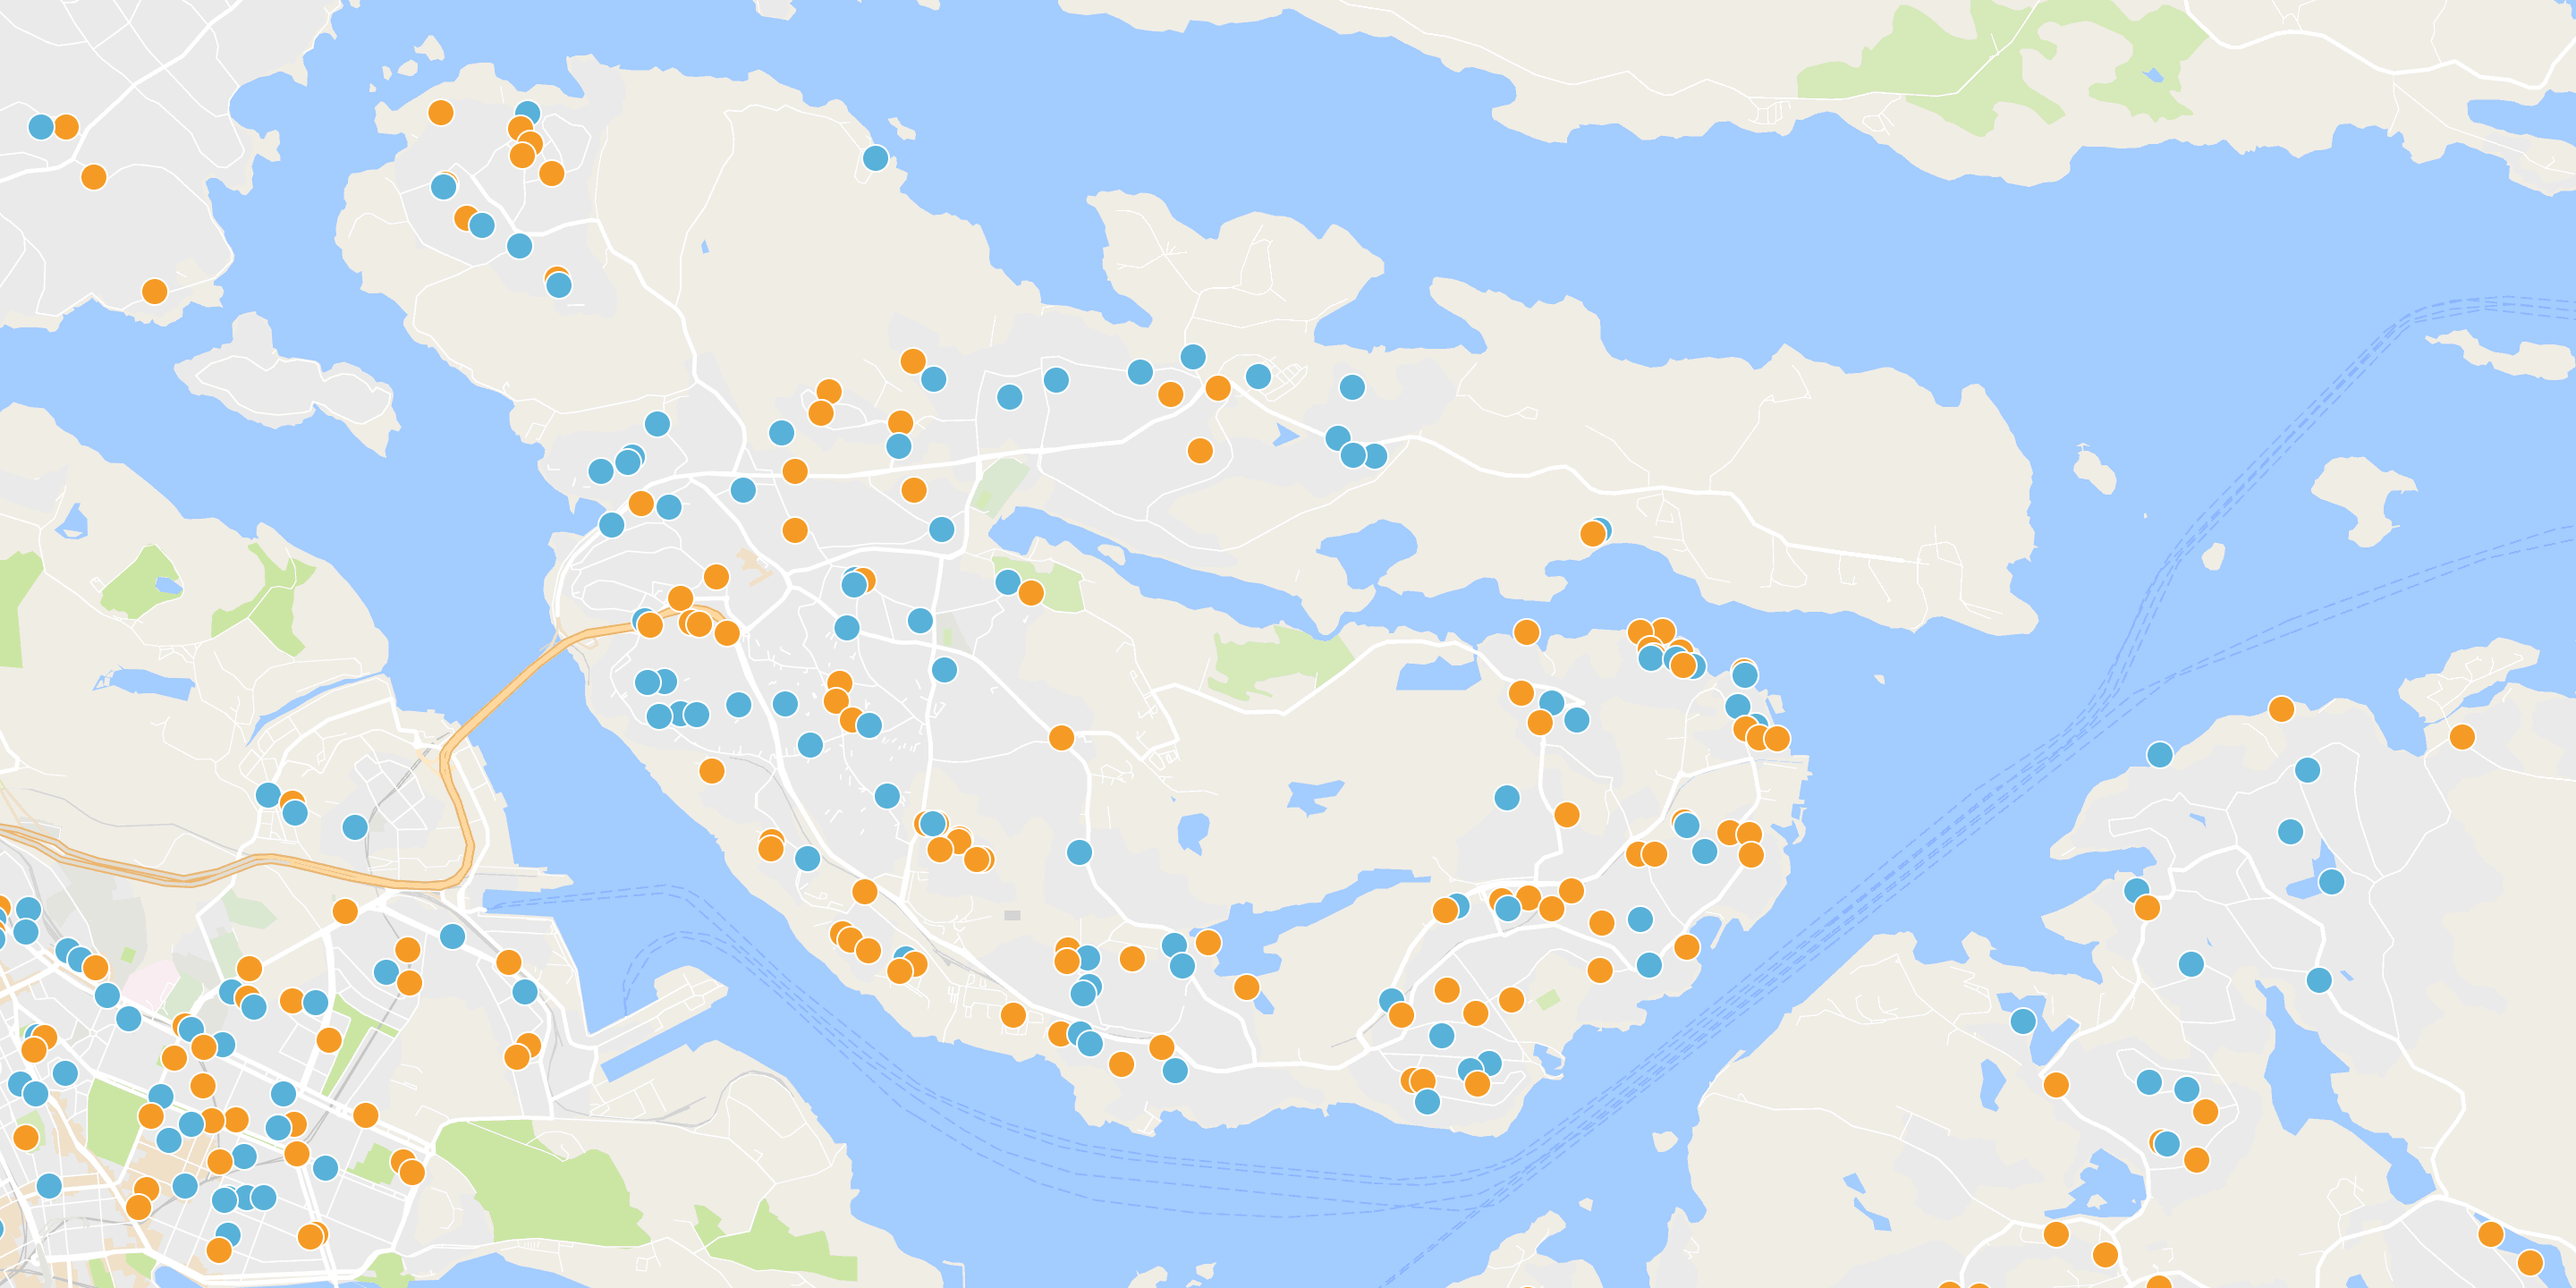
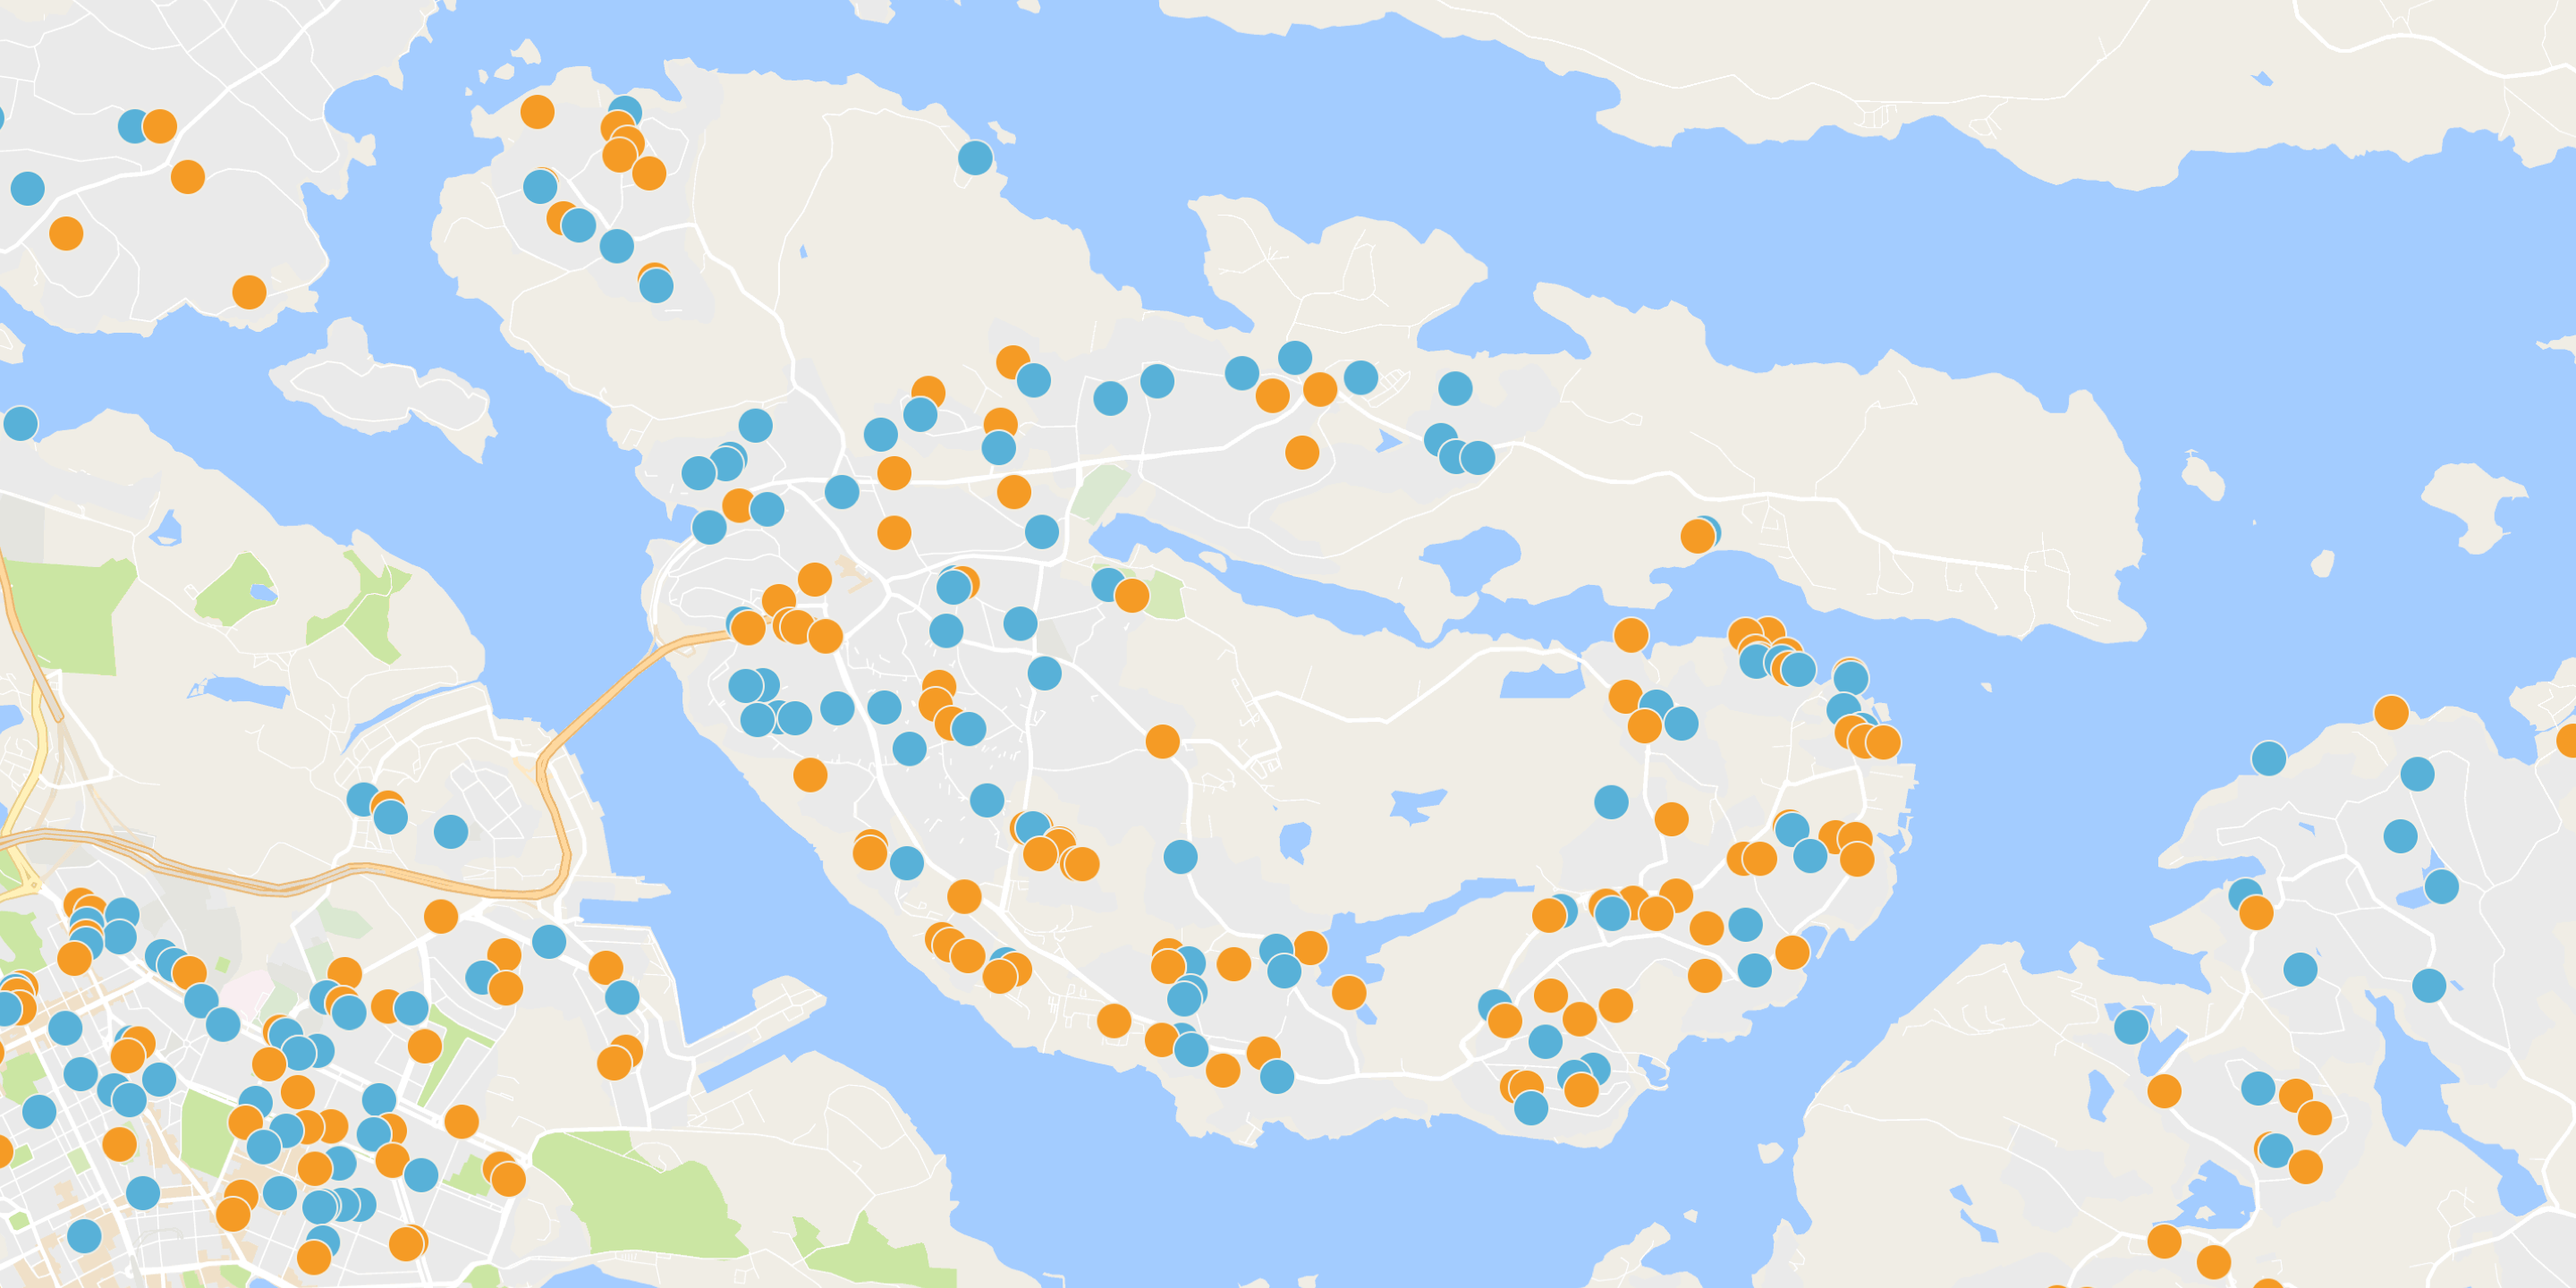
Start page map

diff --git a/src/js/modules/introMap.js b/src/js/modules/introMap.js
@@ -1,10 +1,11 @@
 var $ = require('jquery');
+var globals = require('modules/globals');
 
 var IntroMap = {
   init: function() {
-    var animationDelay = 2500,
+    var firstAnimationDelay = 2500,
       //type effect
-      typeLettersDelay = 100,
+      typeLettersDelay = 80,
       selectionDuration = 500,
       typeAnimationDelay = selectionDuration + 800;
 
@@ -15,9 +16,13 @@ var IntroMap = {
       return;
     }
 
-    singleLetters($('.cd-headline.letters').find('b'));
-    //initialise headline animation
-    animateHeadline($('.cd-headline'));
+    var isMobile = $(window).width() < globals.breakpoints.medium;
+
+    if(!isMobile){
+      singleLetters($typeHeadline.find('b'));
+      //initialise headline animation
+      animateHeadline($typeHeadline);
+    }
 
     function singleLetters($words) {
       $words.each(function() {
@@ -37,59 +42,49 @@ var IntroMap = {
     }
 
     function animateHeadline($headlines) {
-      var duration = animationDelay;
-
       $headlines.each(function() {
         var headline = $(this);
+        var $firstWord = headline.find('.is-visible').eq(0);
         //trigger animation
         setTimeout(function() {
-          hideWord(headline.find('.is-visible').eq(0))
-        }, duration);
+          hideWord($firstWord)
+        }, firstAnimationDelay);
       });
     }
 
     function hideWord($word) {
       var nextWord = takeNext($word);
-      if ($word.parents('.cd-headline').hasClass('type')) {
-        var parentSpan = $word.parent('.cd-words-wrapper');
-        parentSpan.addClass('selected').removeClass('waiting');
-        setTimeout(function() {
-          parentSpan.removeClass('selected');
-          $word.removeClass('is-visible').addClass('is-hidden').children('i').removeClass('in').addClass('out');
-        }, selectionDuration);
-        setTimeout(function() {
-          showWord(nextWord, typeLettersDelay, nextWord.data('background'))
-        }, typeAnimationDelay);
-
-      }
+      var parentSpan = $word.parent('.cd-words-wrapper');
+      parentSpan.addClass('selected').removeClass('waiting');
+      setTimeout(function() {
+        parentSpan.removeClass('selected');
+        $word.removeClass('is-visible').addClass('is-hidden').children('i').removeClass('in').addClass('out');
+      }, selectionDuration);
+      setTimeout(function() {
+        showWord(nextWord, typeLettersDelay, nextWord.data('background'))
+      }, typeAnimationDelay);
     }
 
     function showWord($word, $duration, background) {
-      $introHeaderMap.css('background-image', 'url(' + background + ')');
-      if ($word.parents('.cd-headline').hasClass('type')) {
-        showLetter($word.find('i').eq(0), $word, false, $duration);
-        $word.addClass('is-visible').removeClass('is-hidden');
-      }
+      var changeBackgroundDelay = ($word.text().length - 10) * $duration;
+      setTimeout(function() {
+        $introHeaderMap.css('background-image', 'url(' + background + ')');
+      }, changeBackgroundDelay)
+      showLetter($word.find('i').eq(0), $word, $duration);
+      $word.addClass('is-visible').removeClass('is-hidden');
     }
 
-    function showLetter($letter, $word, $bool, $duration) {
+    function showLetter($letter, $word, $duration) {
       $letter.addClass('in').removeClass('out');
 
       if (!$letter.is(':last-child')) {
         setTimeout(function() {
-          showLetter($letter.next(), $word, $bool, $duration);
+          showLetter($letter.next(), $word, $duration);
         }, $duration);
       } else {
-        if ($word.parents('.cd-headline').hasClass('type')) {
-          setTimeout(function() {
-            $word.parents('.cd-words-wrapper').addClass('waiting');
-          }, 200);
-        }
-        if (!$bool) {
-          setTimeout(function() {
-            hideWord($word)
-          }, animationDelay)
-        }
+        setTimeout(function() {
+          hideWord($word)
+        }, $word.data('animationdelay'))
       }
     }
 

diff --git a/src/css/components/_typed-headline.scss b/src/css/components/_typed-headline.scss
@@ -1,84 +1,82 @@
-.cd-words-wrapper {
-  display: inline-block;
-  position: relative;
-  text-align: left;
-
-  b {
+@media #{$mediumMin} {
+  .cd-words-wrapper {
     display: inline-block;
-    position: absolute;
-    white-space: nowrap;
-    left: 0;
-    top: 0;
+    position: relative;
+    text-align: left;
 
-    &.is-visible {
-      position: relative;
+    b {
+      display: inline-block;
+      position: absolute;
+      white-space: nowrap;
+      left: 0;
+      top: 0;
+
+      &.is-visible {
+        position: relative;
+      }
+
+      .no-js & b {
+        opacity: 0;
+
+        &.is-visible {
+          opacity: 1;
+        }
+      }
     }
+
   }
 
-  .no-js & b {
-    opacity: 0;
-
-    &.is-visible {
-      opacity: 1;
-    }
-
-  }
-}
-
-/* --------------------------------
+  /* --------------------------------
 
 xtype
 
 -------------------------------- */
 
-.cd-headline.type {
-  .cd-words-wrapper {
-    vertical-align: top;
-    overflow: hidden;
+  .cd-headline {
+    .cd-words-wrapper {
+      vertical-align: top;
+      overflow: hidden;
 
-    // &::after {
-    //   /* vertical bar */
-    //   content: '';
-    //   position: absolute;
-    //   right: 0;
-    //   @include center(y);
-    //   height: 90%;
-    //   width: 1px;
-    //   background-color: $white;
-    // }
+      &.selected {
+        background-color: $white;
 
-    &.waiting::after {
-      @include animation(1s, infinite, cd-pulse);
+        &::after {
+          visibility: hidden;
+        }
+
+        b {
+          color: darken($white, 15%);
+        }
+      }
     }
 
-    &.selected {
-      background-color: $white;
+    b {
+      visibility: hidden;
 
-      &::after {
-        visibility: hidden;
+      &.is-visible {
+        visibility: visible;
       }
+    }
 
-      b {
-        color: darken($white, 15%);
+    i {
+      position: absolute;
+      visibility: hidden;
+
+      &.in {
+        position: relative;
+        visibility: visible;
       }
     }
   }
+}
+@media #{$medium} {
+  .cd-headline {
+    b {
+      display: none;
 
-  b {
-    visibility: hidden;
-
-    &.is-visible {
-      visibility: visible;
-    }
-  }
-
-  i {
-    position: absolute;
-    visibility: hidden;
-
-    &.in {
-      position: relative;
-      visibility: visible;
+      &.is-visible {
+        display: inline;
+      }
     }
   }
 }

diff --git a/src/templates/partials/intro-header-start.html b/src/templates/partials/intro-header-start.html
@@ -1,13 +1,13 @@
-<div class="section--intro-header section--intro-header--map-animation section--intro-header--raster js-intro-header--map-animation">
+<div class="section--intro-header section--intro-header--map-animation section--intro-header--raster js-intro-header--map-animation" style="background-image:url(../images/hero/hero-map-1.jpg)">
   <div class="text-wrapper text-wrapper--lg text-wrapper--lg-padding text--white">
-    <h1 class="intro-header--headline">Hur kan våra drivna ungdomar hjälpa dig?</h1>
+    <h1 class="intro-header--headline">Hur kan våra driftiga ungdomar hjälpa dig?</h1>
     <h2 class="intro-header--sub-headline cd-headline js-type-headline letters type">
-			<span>Det finns </span>
+			<span>Vi har </span>
 			<span class="cd-words-wrapper">
-        <b data-background="../images/hero/hero-map-4.png" class="is-visible">över 1500 ungdomar över hela landet</b>
-        <b data-background="../images/hero/hero-map-3.png">exempelvis över 100 ungdomar på Lidingö</b>
-        <b data-background="../images/hero/hero-map-1.png">exempelvis över 180 ungdomar i Nacka</b>
-        <b data-background="../images/hero/hero-map-2.png">exempelvis över 270 ungdomar i Täby</b>
+        <b data-background="../images/hero/hero-map-1.jpg" data-animationdelay="5000" class="is-visible" >1500+ ungdomar över hela landet</b>
+        <b data-background="../images/hero/hero-map-3.jpg" data-animationdelay="2500">t.ex. 100+ ungdomar på Lidingö</b>
+        <b data-background="../images/hero/hero-map-4.jpg" data-animationdelay="2500">t.ex. 180+ ungdomar i Nacka</b>
+        <b data-background="../images/hero/hero-map-2.jpg" data-animationdelay="2500">t.ex. 270+ ungdomar i Täby</b>
 			</span>
 			<span> som vill hjälpa sina grannar!</span>
 		</h2>

diff --git a/src/css/sections/_intro-header-section.scss b/src/css/sections/_intro-header-section.scss
@@ -59,7 +59,7 @@ $raster: '../images/graphics/raster.png';
 
   .intro-header--headline {
     @media #{$xsmall} {
-      font-size: rem(36);
+      font-size: rem(32);
     }
   }
 
@@ -90,6 +90,15 @@ $raster: '../images/graphics/raster.png';
     transition: background 1000ms;
     background-position: center;
     background-size: cover;
+
+    .intro-header--headline {
+      @media #{$large} {
+        font-size: rem(48);
+      }
+      @media #{$xsmall} {
+        font-size: rem(32);
+      }
+    }
 
     .intro-header--sub-headline {
 

diff --git a/src/css/base/_main.scss b/src/css/base/_main.scss
@@ -20,6 +20,17 @@ body {
   &.no-scroll {
     overflow: hidden;
   }
+
+  &.map-animation-backgrounds {
+    &::after {
+      position: absolute;
+      width: 0;
+      height: 0;
+      overflow: hidden;
+      z-index: -1;
+      content: url("../images/hero/hero-map-2.jpg") url("../images/hero/hero-map-2.jpg") url("../images/hero/hero-map-3.jpg") url("../images/hero/hero-map-4.jpg");
+    }
+  }
 }
 
 button {

diff --git a/src/js/app.js b/src/js/app.js
@@ -18,10 +18,16 @@ var app = {
     scrollToTarget.init();
     popupVideo.init();
     activePageHighlight.init();
+  },
+  load: function() {
     introMap.init();
   },
 };
 
-$(document).ready(function() {
+$( document ).ready(function() {
     app.init();
+});
+
+$( window ).load(function() {
+    app.load();
 });

diff --git a/src/js/modules/globals.js b/src/js/modules/globals.js
@@ -2,8 +2,9 @@ var Globals = {
   breakpoints: {
     xsmall: 640,
     small: 800,
-    medium: 1100,
-    large: 1400,
+    medium: 970,
+    large: 1440,
+    xlarge: 1700,
   },
 };
 
